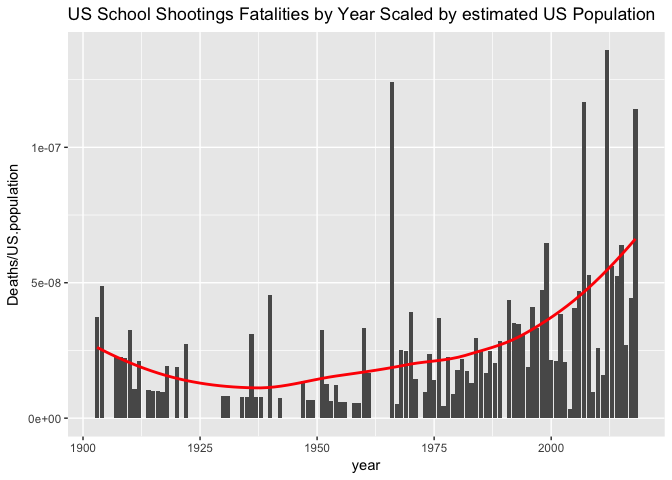
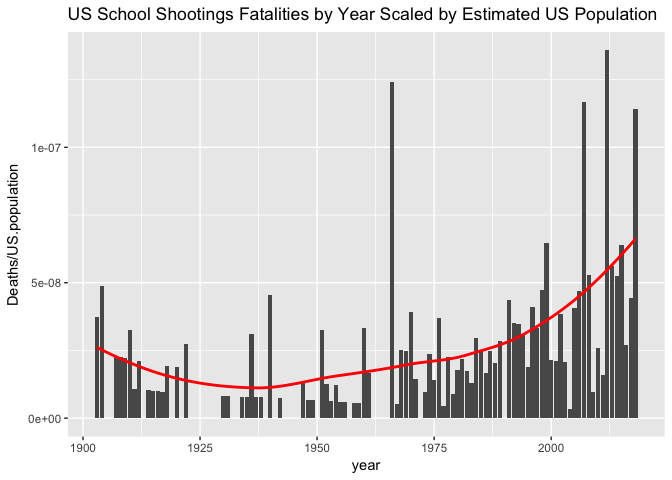
fix titles

Changed region(s): [[0.6875, 0.0, 0.9688, 0.0625]]

diff --git a/USSchoolShootings.md b/USSchoolShootings.md
@@ -247,7 +247,7 @@ yearly$US.population <- exp(est$y)
 ggplot(yearly, aes(x = year, y = Deaths/US.population)) + 
   geom_col() + 
   geom_smooth(se = FALSE, color = "red") +
-  ggtitle("US School Shootings Fatalities by Year Scaled by estimated US Population")
+  ggtitle("US School Shootings Fatalities by Year Scaled by Estimated US Population")
 ```
 
     ## `geom_smooth()` using method = 'loess'
@@ -272,7 +272,7 @@ ggplot(yearly, aes(x = year, y = (Deaths/US.population)/base_rate)) +
   geom_smooth(se = FALSE, color = "red") +
   geom_hline(yintercept = 1, alpha= 0.5) +
   ylab("relative rate") +
-  ggtitle("US School Shootings Fatality Rate per US Population",
+  ggtitle("US School Shootings Fatality Rate Relative to US Population",
           subtitle = "scaled relative to 1950s through 1960s rate")
 ```
 
